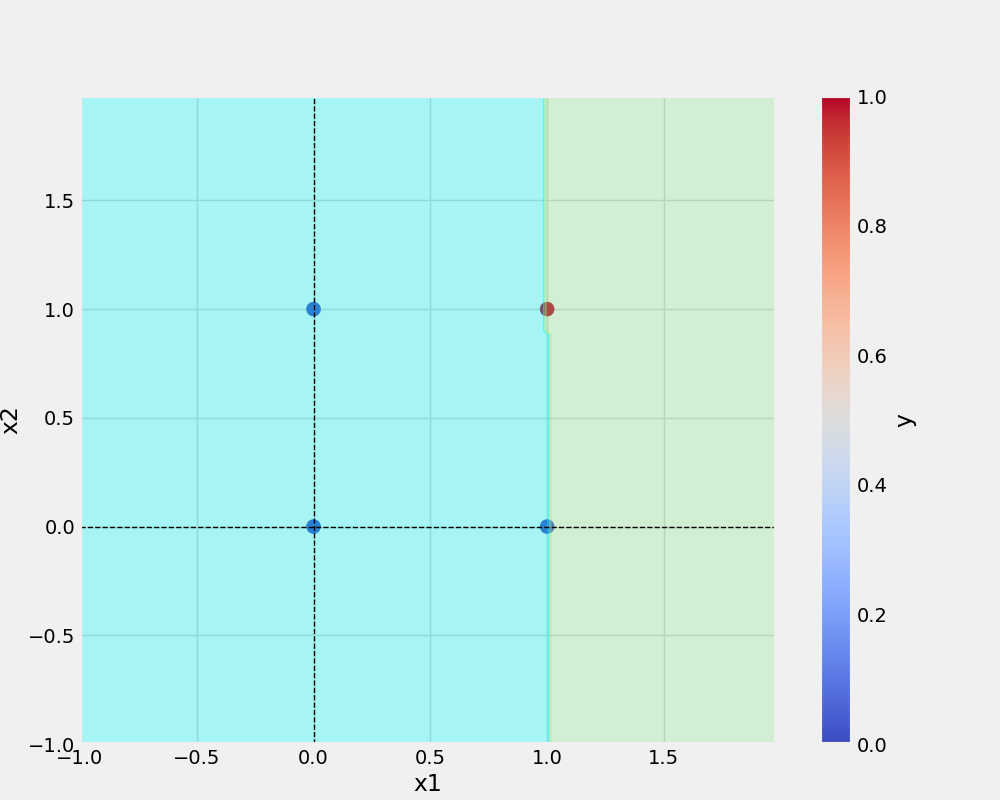
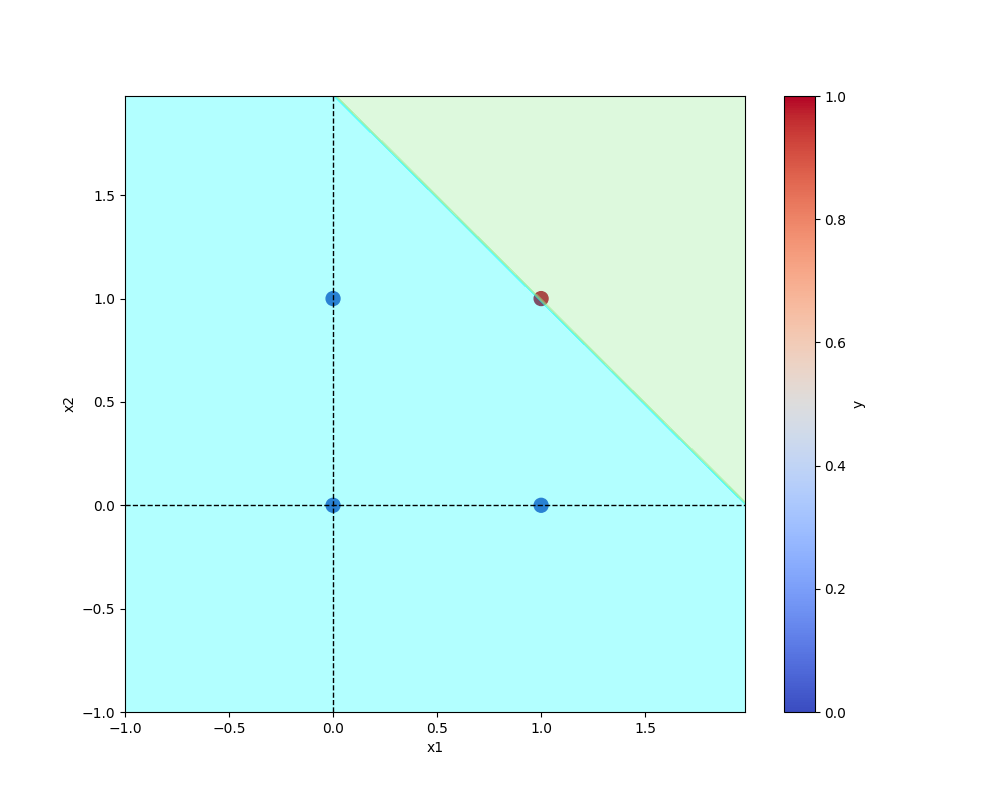
Peceptron Implementation done and plots are saved in plots folder

Changed region(s): [[0.0, 0.0938, 0.899, 1.0], [0.899, 0.5, 0.93, 0.5312]]

diff --git a/utils/all_utils.py b/utils/all_utils.py
@@ -1,0 +1,52 @@
+import os
+import matplotlib.pyplot as plt
+from matplotlib.colors import ListedColormap
+import numpy as np
+from utils.model import Perceptron
+def prepare_data(df, target_col="y"):
+    X = df.drop(target_col, axis=1)
+    
+    y = df[target_col]
+    
+    return X, y 
+
+def save_plot(df, model, filename="plot.png", plot_dir="plots"):
+    def _create_base_plot(df):
+        df.plot(kind="scatter", x="x1", y="x2", c="y", s=100, cmap="coolwarm")
+        plt.axhline(y=0, color="black", linestyle="--", linewidth=1)
+        plt.axvline(x=0, color="black", linestyle="--", linewidth=1)
+        
+        figure = plt.gcf()
+        figure.set_size_inches(10, 8)
+    
+    def _plot_decision_regions(X, y, classifier, resolution=0.02):
+        colors = ("cyan", "lightgreen")
+        cmap = ListedColormap(colors)
+        
+        X = X.values # as an array
+        x1 = X[:, 0]
+        x2 = X[:, 1]
+        
+        x1_min, x1_max = x1.min() - 1, x1.max() + 1 
+        x2_min, x2_max = x2.min() - 1, x2.max() + 1
+        
+        xx1, xx2 = np.meshgrid(np.arange(x1_min, x1_max, resolution),
+                               np.arange(x2_min, x2_max, resolution)
+                              )
+        y_hat = classifier.predict(np.array([xx1.ravel(), xx2.ravel()]).T)
+        y_hat = y_hat.reshape(xx1.shape)
+        
+        plt.contourf(xx1, xx2, y_hat, alpha=0.3, cmap=cmap)
+        plt.xlim(xx1.min(), xx1.max())
+        plt.ylim(xx2.min(), xx2.max())
+        
+        plt.plot()
+        
+    X, y = prepare_data(df)
+    
+    _create_base_plot(df)
+    _plot_decision_regions(X, y, model)
+    
+    os.makedirs(plot_dir, exist_ok=True)
+    plot_path = os.path.join(plot_dir, filename)
+    plt.savefig(plot_path)

diff --git a/xor.py b/xor.py
@@ -1,0 +1,23 @@
+import pandas as pd
+from utils.all_utils import prepare_data, save_plot
+from utils.model import Perceptron
+def main(data,modelName,plotName,eta,epochs):
+    df_XOR = pd.DataFrame(data)
+    X, y = prepare_data(df_XOR, target_col="y")
+    model_xor = Perceptron(eta=ETA, epochs=EPOCHS)
+    model_xor.fit(X, y)
+
+    _ = model_xor.total_loss()
+    model_xor.save(filename=modelName,model_dir="model")
+    save_plot(df_XOR, model_xor, filename=plotName)
+    
+if __name__ == "__main__":
+    XOR = {
+    "x1": [0,0,1,1],
+    "x2": [0,1,0,1],
+    "y" : [0,1,1,0]
+    }
+    ETA = 0.1 # 0 and 1
+    EPOCHS = 10
+    main(data=XOR,modelName="xor.model", plotName="xor.png", eta=ETA,epochs=EPOCHS)
+

diff --git a/and.py b/and.py
@@ -1,0 +1,23 @@
+import pandas as pd
+from utils.all_utils import prepare_data, save_plot
+from utils.model import Perceptron
+
+def main(data,modelName,plotName,eta,epochs):
+    df_AND = pd.DataFrame(data)
+    X, y = prepare_data(df_AND)
+    model_and = Perceptron(eta=eta, epochs=epochs)
+    model_and.fit(X, y)
+    _ = model_and.total_loss()
+    model_and.save(filename=modelName,model_dir="model")
+    save_plot(df_AND, model_and, filename=plotName)
+    
+if __name__ == "__main__":
+    AND = {
+        "x1": [0,0,1,1],
+        "x2": [0,1,0,1],
+        "y" : [0,0,0,1]
+    }
+    ETA = 0.1 # 0 and 1
+    EPOCHS = 10
+    main(data=AND,modelName="and.model", plotName="and.png", eta=ETA,epochs=EPOCHS)
+

diff --git a/or.py b/or.py
@@ -1,0 +1,26 @@
+from utils.all_utils import prepare_data, save_plot
+from utils.model import Perceptron
+import pandas as pd
+
+
+def main(data, modelName, plotName, eta, epochs):
+    df_OR = pd.DataFrame(data)
+    X, y = prepare_data(df_OR)
+
+    model = Perceptron(eta=eta, epochs=epochs)
+    model.fit(X, y)
+
+    _ = model.total_loss()
+
+    model.save(filename=modelName, model_dir="model")
+    save_plot(df_OR, model, filename=plotName)
+
+if __name__ == "__main__":
+    OR = {
+        "x1": [0,0,1,1],
+        "x2": [0,1,0,1],
+        "y" : [0,1,1,1]
+    }
+    ETA = 0.3
+    EPOCHS = 10
+    main(data=OR, modelName="or.model", plotName="or.png", eta=ETA, epochs=EPOCHS)
